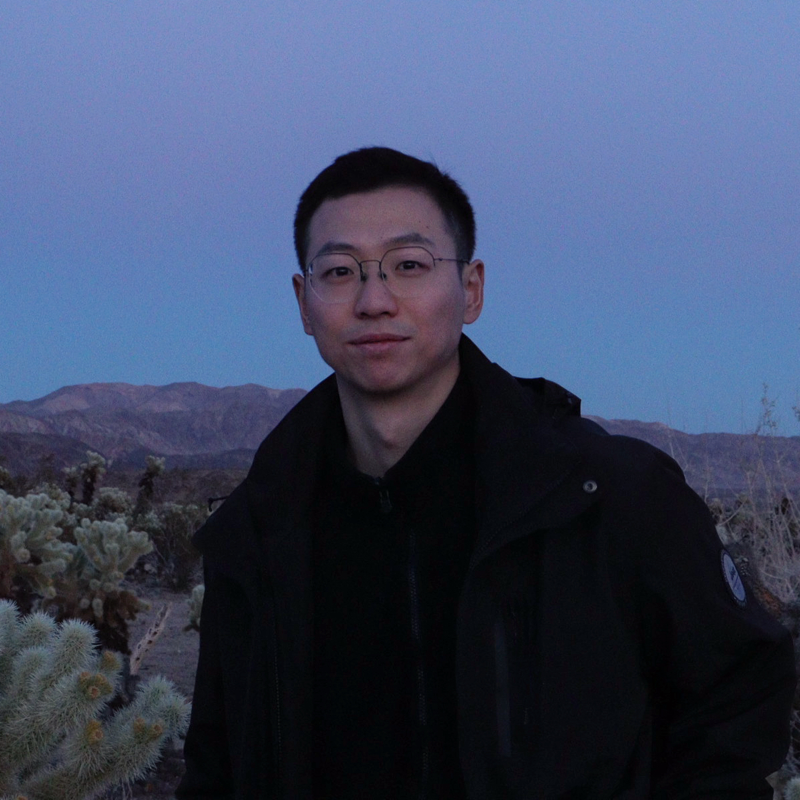
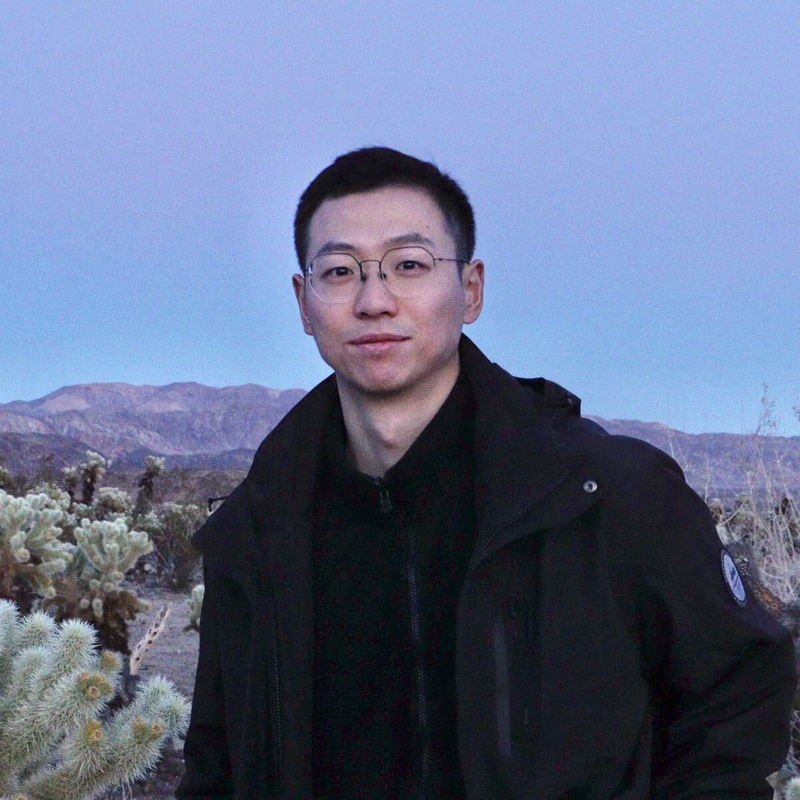
Update Xun's headshot; add Yue's headshot and X link
Replace Xun's headshot with the newer, brighter version of the photo.

Yue had no headshot field and was falling back to placeholder-headshot.png
on her alumni card -- the existing yuexuan.jpeg belongs to Yuexuan Yang, a
different person.

Claude-Session: https://claude.ai/code/session_016BRHHUHJ1eu433RBadTw1N

diff --git a/_people/yue.md b/_people/yue.md
@@ -5,6 +5,8 @@ name: "Yue Wu"
 position: "Research Assistant"
 current: false
 category: "Research Staff"
+headshot: "yue.jpg"
+twitter: "https://x.com/yuewu1a"
 start: ""
 end: ""
 bio: "I am a research assistant in the Qiu Lab, where I am helping complete an ongoing collaborative project with Naoki Konno."
